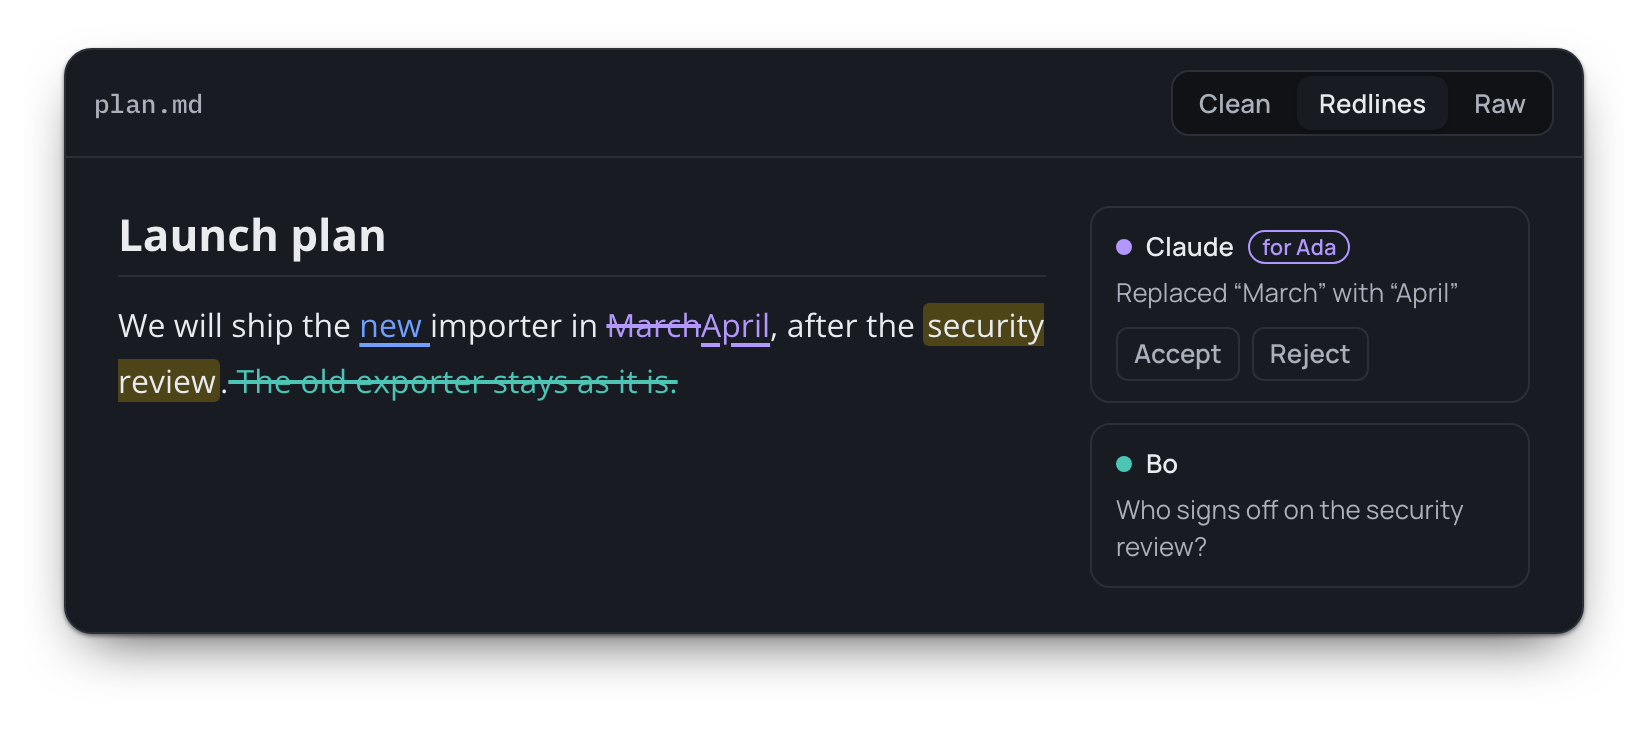
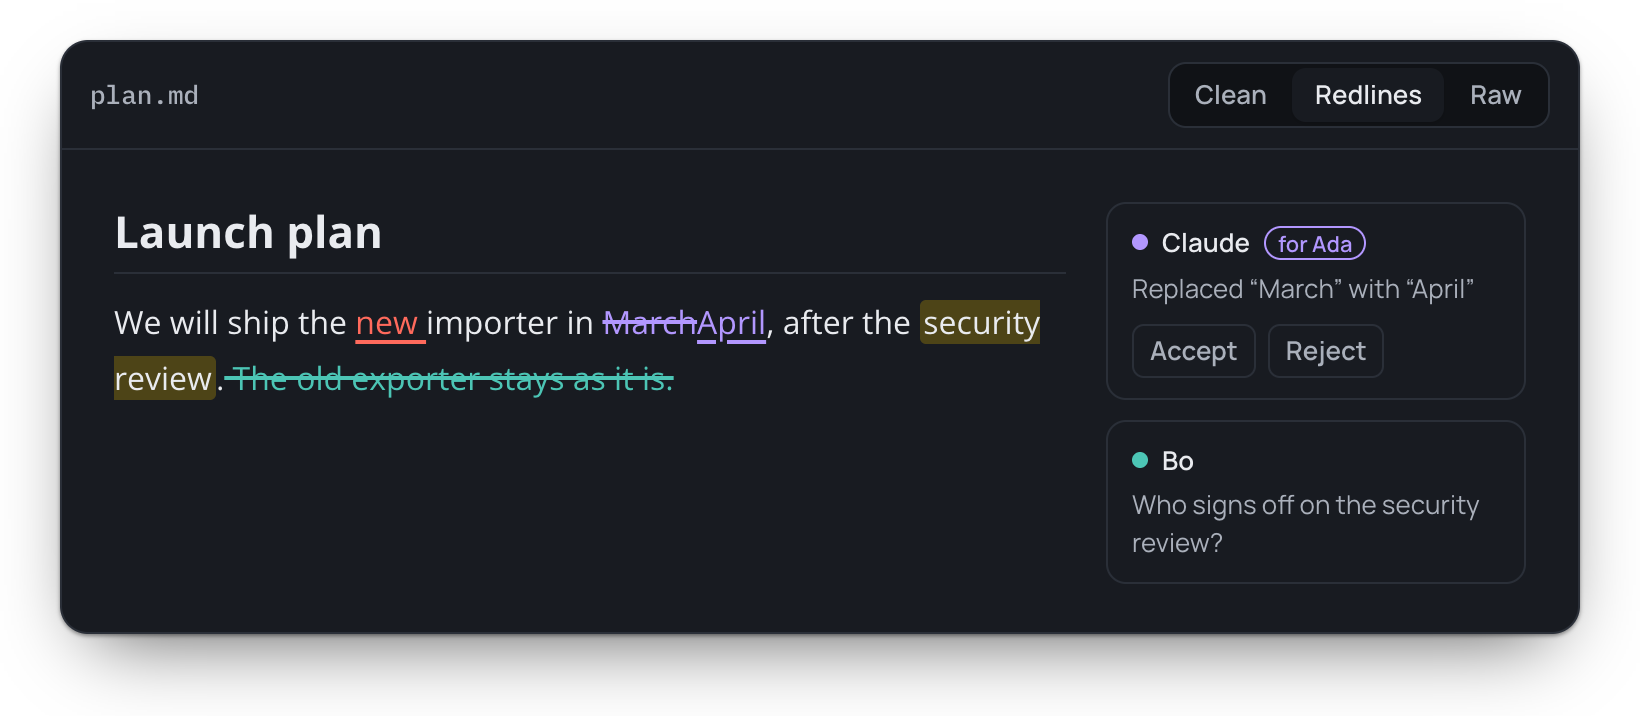
Website and README: Ada, the first author, is red
The website's demo sheet drew Ada's insertion in blue. Ada is the person
using the app, whose color is the brand red, so --ada is now --red, light
and dark. The README's pictures of the Redlines view are that sheet, so
they are taken again (760 px wide, 2x, transparent around the shadow,
without the caption), and their description says red.

diff --git a/website/src/app/globals.css b/website/src/app/globals.css
@@ -21,8 +21,10 @@
   --red-soft: #fbe9e7;
   /* The check marks in the comparison table. */
   --yes: #1b7a47;
-  /* Author colors in the illustrations: two people and an AI agent. */
-  --ada: #1f63d6;
+  /* Author colors in the illustrations: two people and an AI agent. Ada, the
+     person using the app, has the first author color, the brand's red, as in
+     the app (plugins/themes/src/tokens.css). */
+  --ada: var(--red);
   --claude: #7446d6;
   --bo: #0b7f72;
   /* A highlight that anchors a comment. */
@@ -41,7 +43,6 @@
     --red: #ff6a5c;
     --red-soft: #3a1c19;
     --yes: #5fcf8f;
-    --ada: #6fa0ff;
     --claude: #b297ff;
     --bo: #4cc5b5;
     --note: #4d4417;

diff --git a/README.md b/README.md
@@ -25,7 +25,7 @@ with "April". Bo deleted a sentence and asked a question. Each change can be acc
 
 <picture>
   <source media="(prefers-color-scheme: dark)" srcset="docs/img/view-redlines-dark.png">
-  <img src="docs/img/view-redlines-light.png" width="760" alt="The Redlines view: 'new' underlined in blue, 'March' struck through before 'April' in purple, a deleted sentence struck through in green, and two cards in the margin: Claude's replacement with Accept and Reject, and Bo's question.">
+  <img src="docs/img/view-redlines-light.png" width="760" alt="The Redlines view: 'new' underlined in red, 'March' struck through before 'April' in purple, a deleted sentence struck through in green, and two cards in the margin: Claude's replacement with Accept and Reject, and Bo's question.">
 </picture>
 
 **Clean** shows the document with every change accepted. GitHub, VS Code and other Markdown tools
